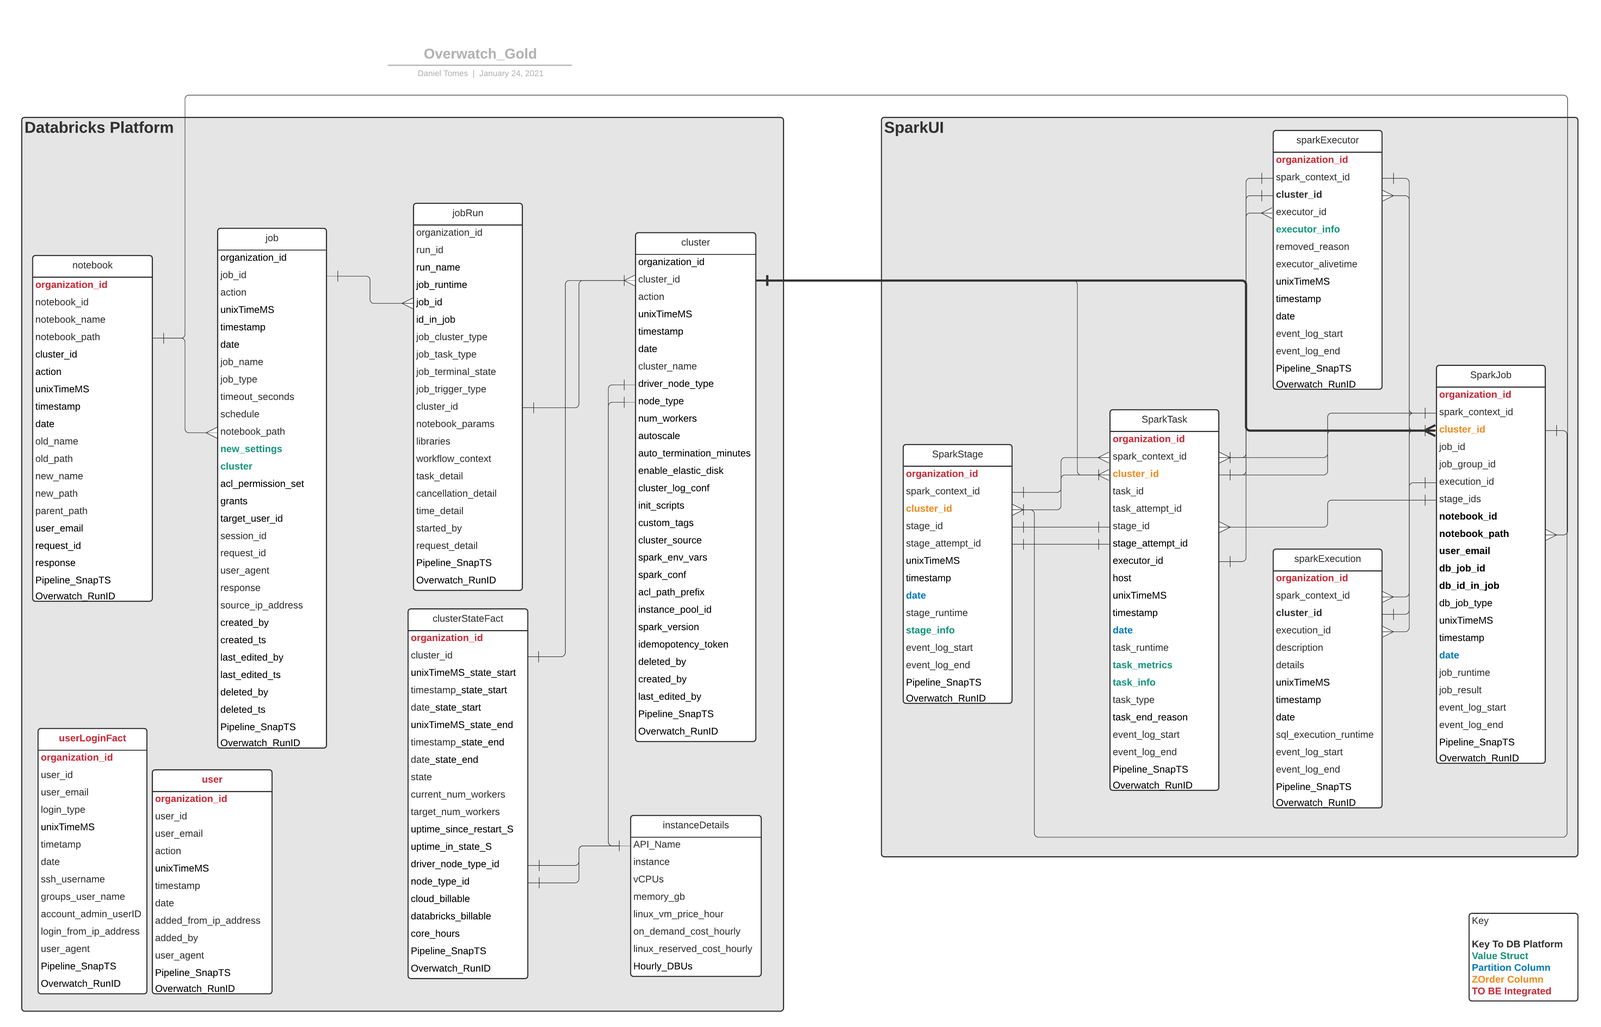
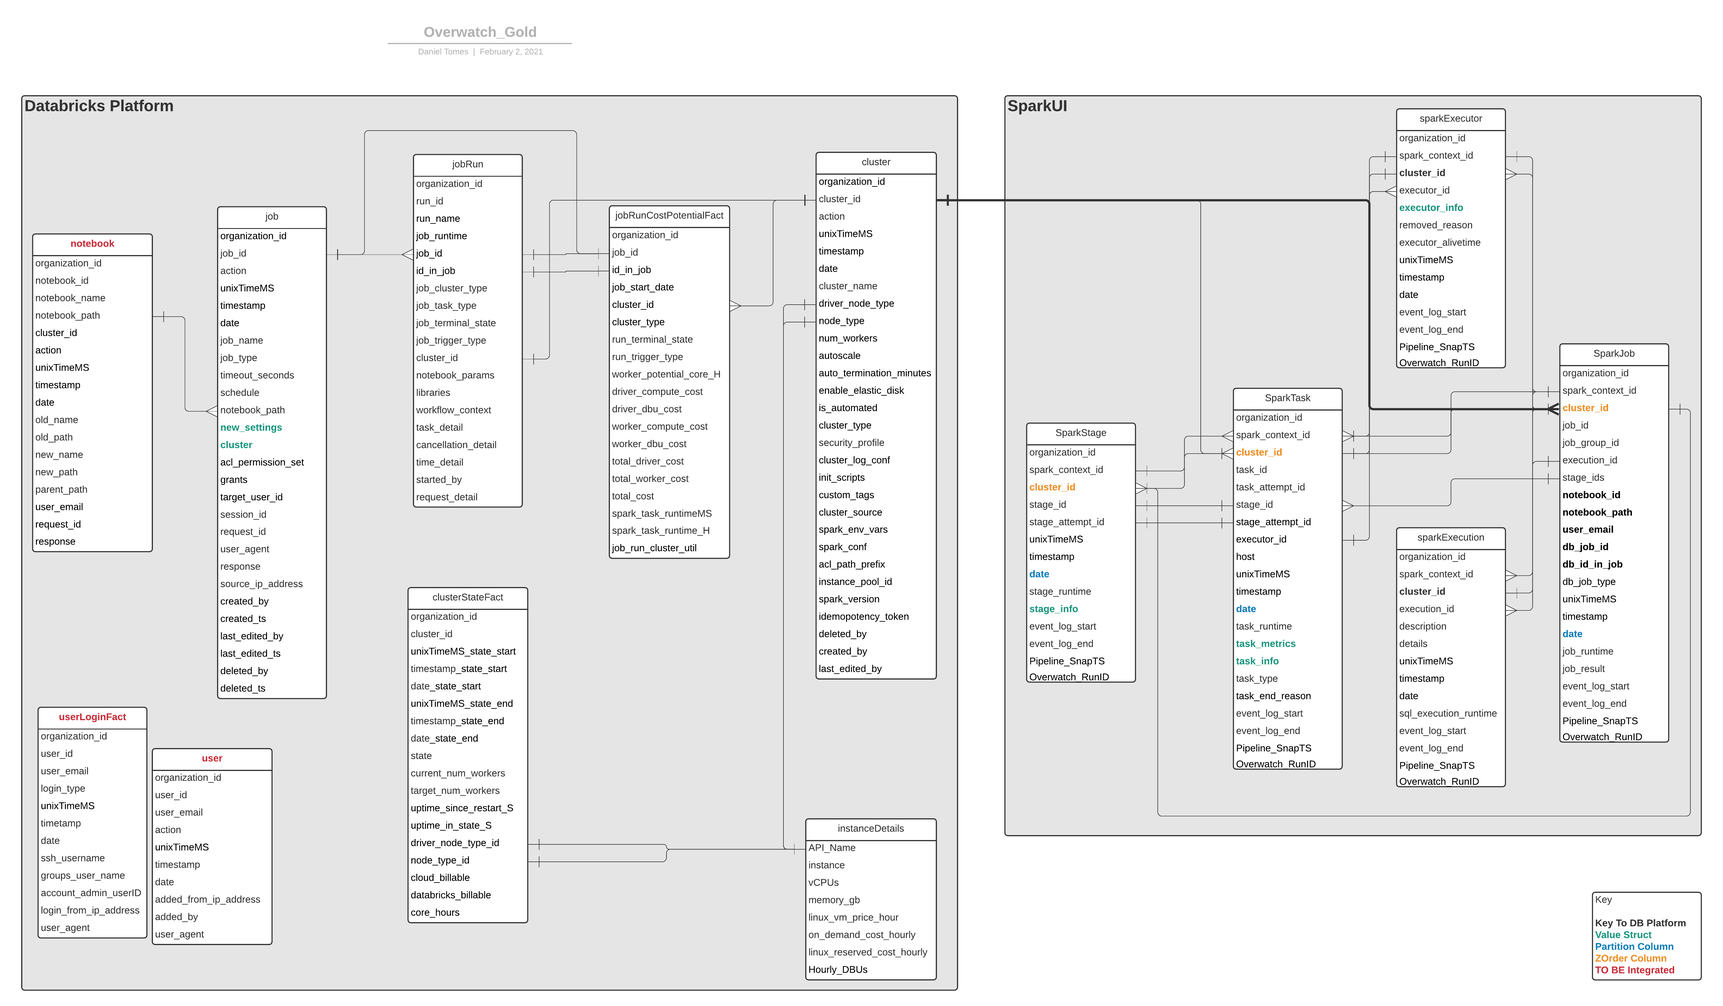
additional docs

Changed region(s): [[0.0, 0.0312, 0.9976, 0.9968], [0.9041, 0.8722, 0.9976, 0.9968]]

diff --git a/docs/overwatch_docs/content/DataEngineer/ETL_Process.md b/docs/overwatch_docs/content/DataEngineer/ETL_Process.md
@@ -1,0 +1,182 @@
+---
+title: "ETL Process"
+date: 2021-01-11T12:21:46-05:00
+draft: true
+weight: 2
+---
+
+## Data Ingestion and Resume Process
+The specificities can vary slightly between cloud provider but the general methodology is the exact same. 
+Specific differences will be discussed in [Cloud-Specific Variations](#cloud-specific-variations) section. 
+
+Each module is responsible for building certain entities at each layer, bronze, silver, gold, and presentation.
+The mapping between module and gold entity can be found in the [Modules]({{%relref "GettingStarted/Modules.md"%}}) section.
+Each module is also tracked individually in the primary tracking tabe, [**Pipeline_Report**](#the-pipeline-report).
+
+### The Overwatch Execution Process
+Each Overwatch Run takes a snapshot at a point in time and will be the uppermost timestamp for which any data will
+be captured. Each Overwatch Run also derives an associated GUID by which it can be globally identified throughout
+the run. Each record created during the run will have an associated *Overwatch_RunID* and *Pipeline_SnapTS* which can 
+be used to determine exactly when a record was loaded.
+
+The "from_time" will be derived dynamically for each module as per the previous run snapshot time
+for the given module plus one millisecond. If the module has never been executed, the primordial time will be
+used which is defined as current_date - 60 days, by default. This can be overridden in the 
+[config]({{%relref "GettingStarted/Configuration.md"%}}). Some modules can be very slow / time-consuming on the 
+first run due to the data volume and/or trickle loads from APIs. Best practice is to set your primordial date 
+(if desired > 60d) AND set "*maxDaysToLoad*" to a low number like 5. It's important to balance sufficient data to 
+fully build out the implicit schemas and small enough data to get through an initial valid test.
+
+More best practices can be found in the [Best Practices]({{%relref "GettingStarted/AdvancedTopics.md"%}}#best-practices) 
+section; these are especially important to reference when getting started.
+
+## The Pipeline Report
+The Pipeline_Report table controls the start/stop points for each module and tracks the status of each run. 
+Manipulating this table will change the way Overwatch executes so be sure to read the rest of this page before 
+altering this table.
+
+The Pipeline Report is very useful for identifying issues in the pipeline. Each module, each run is detailed here. 
+The structure of the table is outlined below.
+
+### Pipeline_Report Structure
+[SAMPLE]() **<-- TODO**
+
+**KEY** -- organization_id + moduleID + Overwatch_RunID
+
+For the developers -- This output is created as a DataSet via the Case Class
+*com.databricks.labs.overwatch.utils.ModuleStatusReport*
+
+Column | Type | Description
+:---------------------------|:----------------|:--------------------------------------------------
+organization_id             |string           |Canonical workspace id
+moduleId                    |int              |Module ID -- Unique identifier for the module
+moduleName                  |string           |Name of the module
+runStartTS                  |long             |Snapshot time of when the Overwatch run begins
+runEndTS                    |long             |Snapshot time of when the Overwatch run ends
+fromTS                      |long             |The snapshot start time from which data will be loaded for the module
+untilTS                     |long             |The snapshot final time from which data will be loaded for the module. This is also the epoch millis of Pipeline_SnapTS
+dataFrequency               |string           |(milliSecond OR Daily) Most modules have a time resolution at the millisecond level; however there are certain modules that can only be run daily. This column is used by Overwatch internals to calculate start/stops for new data 
+status                      |string           |Terminal Status for the module run (SUCCEEDED, FAILED, ROLLED_BACK, EMPTY, etc). When status is failed, the error message and stack trace that can be obtained is also placed in this field to assist in finding issues 
+recordsAppended             |long             |Count of records appended. Not always enabled for performance reasons, see [advanced topics]({{%relref "GettingStarted/AdvancedTopics.md"%}}) for additional information. 
+lastOptimizedTS             |long             |Epoch millis of the last delta optimize run. Used by Overwatch internals to maintain healthy and optimized tables.
+vacuumRetentionHours        |int              |Retention hours for delta -- How long to retain deleted data
+inputConfig                 |struct           |Captured input of OverwatchParams config at time of module run
+parsedConfig                |struct           |The config that was parsed into OverwatchParams through the json deserializer
+Pipeline_SnapTS             |timestamp        |Timestamp type of the pipeline snapshot time (server time)
+Overwatch_RunID             |string           |GUID for the overwatch run
+
+## Overwatch Time
+Overwatch will default timezone to that of the server / cluster on which it runs. This is a critical point to 
+be aware of when aggregating Overwatch results from several workspaces across different regions.
+
+## Reloading Data
+**CAUTION** Be very careful when attempting to reload bronze data, much of the bronze source data expires to 
+minimize storage costs. Reloading bronze data should be a very rare task (hopefully never necessary)
+
+The need may arise to reload data. This can be easily accomplished by setting the "Status" column to "ROLLED_BACK" 
+for the modules you wish to reload where:
+* fromTime column > some point in time OR
+* Overwatch_RunID === some Overwatch_Run_ID (useful if duplicates get loaded)
+
+Remember to specify the ModuleID for which you want to reload data.
+
+### Reloading Data Example
+**Scenario** Something has occurred and has corrupted the jobrun entity after 01-01-2021 but the issue wasn't 
+identified until 02-02-2021. To fix this, all data from 12-31-2020 forward will be rolled back. Depending on the details,
+the fromTime or the Pipeline_SnapTS could be used; for this scenario we will go back an extra day and use 
+Pipeline_SnapTS as the incremental time column. Since we're using delta, we are safe to perform updates and deletes
+without fear of losing data (In the event of an issue we could simply restore a previous version of the table). 
+
+{{% notice warning%}}
+[**Reloading spark silver**](#reloading-spark-data-silver) requires one extra step. If reloading spark silver data click the link. 
+{{% /notice %}}
+
+Steps:
+1. Verify Overwatch isn't currently running and isn't about to kick off for this workspace.
+2. Delete from jobRun_silver table where Pipeline_SnapTS >= "2020-12-31"
+   
+```scala
+spark.sql("delete from overwatch_etl.jobRun_Silver where cast(Pipeline_SnapTS as date) >= '2020-12-31' ")
+```
+
+3. Delete from jobRun_gold table where Pipeline_SnapTS >= "2020-12-31"
+
+```scala
+spark.sql("delete from overwatch_etl.jobRun_Gold where cast(Pipeline_SnapTS as date) >= '2020-12-31' ")
+```
+
+4. Update the Pipeline_Report table set Status = "ROLLED_BACK" where moduleId in (2011,3003) and status in ('SUCCESS', 'EMPTY').
+    * Modules 2011 and 3003 are the Silver and Gold modules for jobRun respectively
+    * Only for Status values of 'SUCCESS' and 'EMPTY' because we want to maintain any 'FAILED' or 'ERROR' statuses that may be present from other runs
+
+```scala
+spark.sql(s"update overwatch_etl.pipeline_report set status = 'ROLLED_BACK' where moduleID in (2011,3003) and status in ('SUCCESS', 'EMPTY') ")
+```
+
+After performing the steps above, the next Overwatch run will load the data from 12-31 -> current.
+{{% notice warning%}}
+If back-loading more than 60 days, you must override the default primordial date in the config. Additionally, depending
+on data volume and cluster size, it may be best to only load 60 days at a time using the *maxDaysToLoad* config. This
+allows for the data to be loaded in chunks. Not necessary, but may have benefits depending on the situation.
+{{% /notice %}}
+
+{{% notice note%}}
+For smaller, dimensional, silver/gold entities and testing, it's often easier to just drop the table than 
+it is to delete records after some date. **Remember**, though, it's critical to set the primordial from time if 
+rebuilding entities with more than 60 days.
+{{% /notice %}}
+
+### Reloading Spark Data (Silver)
+For performance reasons, there's one more update that must be made when reloading Spark Silver data. This data is 
+derived from a VERY large events table, *overwatch_etl.spark_events_bronze*. To improve standard run performance,
+new data that hasn't been processed is placed into it's own partition *Downstream_Processed = false"*. 
+
+To set the *Downstream_Processed* flag to false for the correct records you must commit an update statement to the 
+spark_events_bronze table as well before attempting to reload. This table is further partitions by "Event"; thus, the 
+spark events to be reloaded can be further narrowed down with an Event filter. A map of spark entity to relevant 
+events is provided below.
+
+SparkGoldEntity             | In Clause
+:---------------------------|:-------------------------------------------------------------
+sparkExecutions             |('org.apache.spark.sql.execution.ui.SparkListenerSQLExecutionStart', 'org.apache.spark.sql.execution.ui.SparkListenerSQLExecutionEnd')
+sparkJob                    |('SparkListenerJobStart', 'SparkListenerJobEnd')
+sparkStage                  |('SparkListenerStageSubmitted', 'SparkListenerStageCompleted')
+sparkTask                   |('SparkListenerTaskStart', 'SparkListenerTaskEnd')
+sparkExecutor               |('SparkListenerExecutorAdded', 'SparkListenerExecutorRemoved')
+
+For another scenario, let's assume that the above steps have been completed but instead of jobRun, the sparkTasks
+entity must be reloaded after 12-31. Unfortunately this table (spark_events_bronze) has not yet been partitioned by date
+and the data volume for sparkTasks can be substantial. The best we can do in this scenario is to execute the statement
+below and just wait. The more filters you can apply, the more efficient the reload will be, but don't be deceived, 
+this is a raw table and many columns like "timestamp" you may expect to be populated often is not in all cases. Safe
+filter columns include:
+* Event (Must filter on this)
+* Pipeline_SnapTS
+* filenameGroup
+* clusterId
+* SparkContextId
+
+```scala
+val updateStatement =
+  """
+    |update overwatch_etl.spark_events_bronze set Downstream_Processed = false
+    | where Event in ('SparkListenerTaskStart', 'SparkListenerTaskEnd')
+    | and cast(Pipeline_SnapTS as date) >= '2020-12-31'
+    |""".stripMargin
+spark.sql(updateStatement)
+```
+
+### Running Only Specific Layers
+As in the example above, it's common to need to rerun only a certain layer for testing or reloading data. In the 
+example above it's inefficient to run the bronze layer repeatedly to reprocess two tables in silver and gold. If 
+no new data is ingested into bronze, no modules outside of the two we rolled_back will have any new data and thus
+will essentially be skipped resulting in the re-processing of only the two tables we're working on. 
+
+The main class entrypoint for Overwatch runs all layers and there's no way around this. To run only specific layers
+a notebook can be used. Build the config as normal, and then following the instructions in 
+[Getting Started - Run Via Notebook]({{%relref "GettingStarted"%}}#run-via-notebook). This example illustrates how 
+to run each of the three layers; Bronze, Silver, and Gold. In this scenario the Bronze(...) line would be commented
+out to result in only a Silver/Gold layer run.
+
+## Cloud-Specific Variations
+

diff --git a/docs/overwatch_docs/content/DataEngineer/Definitions.md b/docs/overwatch_docs/content/DataEngineer/Definitions.md
@@ -49,6 +49,7 @@ Complete column descriptions are only provided for the consumption layer. The en
 * [instanceDetails](#instancedetails)
 * [job](#job)
 * [jobrun](#jobrun)
+* [jobRunCostPotentialFact](#jobruncostpotentialfact)
 * [notebook](#notebook)
 * [user](#user)
 * [userLoginFact](#userloginfact)
@@ -73,7 +74,7 @@ To do this, just right click the SAMPLE link and click saveTargetAs or saveLinkA
 
 Column | Type | Description
 :---------------------------|:----------------|:--------------------------------------------------
-cluster_id                  |string           |Canonical Databricks cluster ID (more info in [Common Meta Fields]())
+cluster_id                  |string           |Canonical Databricks cluster ID (more info in [Common Meta Fields](#common-meta-fields))
 action                      |string           |Either **create** OR **edit** -- depicts the type of action for the cluster
 cluster_name                |string           |user-defined name of the cluster
 driver_node_type            |string           |Canonical name of the driver node type.
@@ -82,6 +83,9 @@ num_workers                 |int              |The number of workers defined WHE
 autoscale                   |struct           |The min/max workers defined WHEN autoscaling is enabled
 auto_termination_minutes    |int              |The number of minutes before the cluster auto-terminates due to inactivity
 enable_elastic_disk         |boolean          |Whether autoscaling disk was enabled or not
+is_automated                |booelan          |Whether the cluster is automated (true if automated false if interactive)
+cluster_type                |string           |Type of cluster (i.e. Serverless, SQL Analytics, Single Node, Standard)
+security_profile            |struct           |Complex type to describe secrity features enabled on the cluster. More information [Below]()
 cluster_log_conf            |string           |Logging directory if configured
 init_script                 |Array\[Struct\]  |Array of init scripts
 custom_tags                 |string           |User-Defined tags AND also includes Databricks JobID and Databricks RunName when the cluster is created by a Databricks Job as an automated cluster. Other Databricks services that create clusters also store unique information here such as SqlEndpointID when a cluster is created by "SqlAnalytics" 
@@ -200,10 +204,51 @@ time_detail                 |struct           |All time dimensions tied to the r
 started_by                  |struct           |Run request received from user -- email is recorded here -- usage == started_by.email
 request_detail              |struct           |Complete request detail received by the endpoint
 
+#### JobRunCostPotentialFact
+[SAMPLE]() **<-- TODO**
+
+**KEY** -- organization_id + job_id + id_in_job
+
+This fact table defines the cost, potential, and utilization of a cluster associated with a specific Databricks 
+Job Run.
+
+* Potential: Total core_milliseconds for which the cluster COULD execute spark tasks. This derivation only includes
+  the worker nodes in a state ready to receive spark tasks (i.e. Running). Nodes being added or running init scripts
+  are not ready for spark jobs thus those core milliseconds are omitted from the total potential.
+* Cost: Derived from the [instanceDetails](#instancedetails) table. This table can be completely customized to the 
+  need of the user. The costs in this table are derived from the "On_Demand_Cost_Hourly" values associated with the
+  instance type in instanceDetails. The DBU costs are associated to the interactive and automated dbu contract rates
+  defined in the configuration of the Overwatch Job. These values are generally static by organization_id (i.e. workspace)
+  but can be referenced in the instanceDetails table as well.
+* Utilization: Utilization is a function of core milliseconds used during spark task execution divided by the total
+  amount of core milliseconds available given the cluster size and state. (i.e. spark_task_runtime_H / worker_potential_core_H) 
+
+Column | Type | Description
+:---------------------------|:----------------|:--------------------------------------------------
+organization_id             |string           |Canonical workspace id
+job_id                      |string           |Canonical ID of job
+id_in_job                   |string           |Run instance of the job_id. This can be seen in the UI in a job spec denoted as "Run N". Each Job ID has first id_in_job as "Run 1" and is incrented and canonical ONLY for the job_id. This field omits the "Run " prefix and results in an integer value of run instance within job.
+job_start_date              |string           |Date the job was submitted for run
+cluster_id                  |string           |Canonical workspace cluster id
+cluster_type                |string           |Either "automated" or "interactive"
+run_terminal_state          |string           |Final state of the job such as "Succeeded", "Failed" or "Cancelled"
+run_trigger_type            |string           |How the run was triggered (i.e. cron / manual) 
+worker_potential_core_H     |double           |cluster core hours capable of executing spark tasks, "potential"
+driver_compute_cost         |double           |USD cloud compute cost of Driver node
+driver_dbu_cost             |double           |USD Databricks cost for DBUs associated with Driver node
+worker_compute_cost         |double           |USD cloud compute cost of Worker nodes
+worker_dbu_cost             |double           |USD Databricks cost for DBUs associated with Worker nodes
+total_driver_cost           |double           |USD sum of compute and DBU costs for driver
+total_worker_cost           |double           |USD sum of compute and DBU costs for workers
+total_cost                  |double           |USD sum of compute and DBU costs associated with entire cluster
+spark_task_runtimeMS        |long             |Spark core execution time in milliseconds (i.e. task was operating/locking on core)
+spark_task_runtime_H        |double           |Spark core execution time in Hours (i.e. task was operating/locking on core)
+job_run_cluster_util        |double           |Cluster utilization: spark task execution time / cluster potential
+
 #### Notebook
 [SAMPLE]() **<-- TODO**
 
-**KEY** -- organization_id + notebook_id * action * unixTimeMS
+**KEY** -- organization_id + notebook_id + action + unixTimeMS
 
 Slow changing dimension of the notebook entities through time. This table does not capture the edits of the 
 notebook contents but rather the state of the notebook itself such as location, name, etc. Primary use case for 
@@ -230,7 +275,7 @@ response                    |struct           |HTTP response including errorMess
 #### User
 [SAMPLE]() **<-- TODO**
 
-**KEY** -- organization_id + user_id * action * unixTimeMS
+**KEY** -- organization_id + user_id + action + unixTimeMS
 
 {{% notice note%}}
 **Not exposed in the consumer database**. This table contains more sensitive information and by default is not

diff --git a/docs/overwatch_docs/content/GettingStarted/Modules.md b/docs/overwatch_docs/content/GettingStarted/Modules.md
@@ -13,6 +13,7 @@ Modules are the method by which Overwatch is segmented; currently, the modules a
 * [pools](#pools)
 * [jobs](#jobs)
 * [accounts](#accounts)
+* [notebooks](#notebooks)
 * [sparkEvents](#sparkevents)
 
 The default is to use all modules so if none are specified in the configuration, all modules will be enabled. Currently,
@@ -65,6 +66,8 @@ to reduce/eliminate data gaps.
 ### Clusters
 *Dependencies:* Audit
 
+*Gold Entities:* Cluster
+
 The clusters module is pretty low-level. The cluster_id field throughout the layers is the primary method through 
 which users can tie spark-side data to databricks-side data. Additionally, cluster_ids are required to calculated 
 costs for clusters and for jobs since they are the basis for the compute. Without this metadata, the value of Overwatch
@@ -76,6 +79,8 @@ the clusters module, the sparkEvents cannot function.
 
 ### ClusterEvents
 *Dependencies:* Clusters
+
+*Gold Entities:* ClusterStateFact
 
 Cluster Events are just what they sound like, events that occur on a cluster which usually result in a cluster state
 change. All of these events can be seen in the UI if you navigate to a spcific cluster and click on *eEvent Log*.
@@ -101,7 +106,9 @@ other resources are heavily utilizing api calls.
 The Pools Module records the metadata related to Databricks Instance Pools.
 
 ### Jobs
-*Dependencies:* Audit
+*Dependencies:* Audit|Clusters|ClusterEvents
+
+*Gold Entities:* Job|JobRun|JobRunCostPotentialFact
 
 Overwatch curates all the job definitions through time, capturing as much metadata about these job definitions as 
 possible. In addition to the job definition metadata, Overwatch also captures each run and ties the run to a cluster_id
@@ -115,6 +122,8 @@ point-in-time cluster definition and run-times can be very powerful, and very ha
 
 ### Accounts
 *Dependencies:* Audit
+
+*Gold Entities:* User|UserLoginFact
 
 The accounts module is very simple and is meant to assist the IT Admin team in keeping track of users. The Accounts
 module includes some very useful auditing information as well as enables authorized users to tie user_ids back to 
@@ -131,8 +140,17 @@ If desired, views, can be created manually in the consumer database to publish t
 Overwatch should not be used as single source of truth for any audit requirements.
 {{% /notice %}}
 
+### Notebooks
+*Dependencies:* Audit
+
+*Gold Entities:* Notebook
+
+Currently a very simple module that just enables the materialization of notebooks as slow changing dimensions. 
+
 ### SparkEvents
 *Dependencies:* Clusters
+
+*Gold Entities:* SparkExecution|SparkJob|SparkStage|SparkTask|SparkExecutor|SparkJDBC
 
 Databricks captures all "SparkEvents" captured by Open Source Spark (OSS) AND some additional events that are 
 proprietary to Databricks. These events are captured and persisted in event log files when cluster logging is enabled.

diff --git a/docs/overwatch_docs/content/GettingStarted/Configuration.md b/docs/overwatch_docs/content/GettingStarted/Configuration.md
@@ -17,7 +17,13 @@ and strong typing for additional validation options. All configs attempt to be d
 where possible. If a default is set, passing in a value will simply overwrite the default.
 
 ## Config Examples
-Below are some configurations examples.
+Below are some configurations examples of building the configuration parameters called *params* which is a variable
+set to contain an instance of the class *OverwatchParams*.
+
+Once the config has been created according to your needs, refer back to the 
+[Getting Started - Run Via Notebook]({{%relref "GettingStarted"%}}#run-via-notebook) or
+[Getting Started - Run Via Main Class]({{%relref "GettingStarted"%}}#run-via-main-class) section to see how it's can be used
+when executing the Overwatch Run.
 
 ### Simplified Example
 The simplest configuration possible. This is just for testing and likely is not a sufficient configuration for 

diff --git a/docs/overwatch_docs/content/GettingStarted/AdvancedTopics.md b/docs/overwatch_docs/content/GettingStarted/AdvancedTopics.md
@@ -15,3 +15,9 @@ weight: 4
 * Moving the Overwatch Database
 * Getting through the historical load (first run)
 
+## Optimizations Implemented
+
+## Best Practices
+
+## Enabling Debug
+Might move this to troubleshooting

diff --git a/docs/overwatch_docs/content/GettingStarted/Upgrading.md b/docs/overwatch_docs/content/GettingStarted/Upgrading.md
@@ -5,3 +5,5 @@ draft: true
 weight: 5
 ---
 
+## Place Holder
+This section will describe the process for schema upgrades for post 1.0 upgrades
